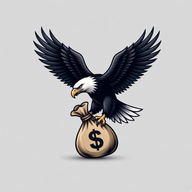
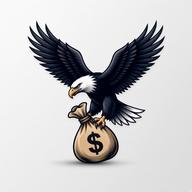
fix(ios): owner AppIcon plate (opaque only; web stays transparent) [GROK]
Install owner 1024×1024 light-background eagle+bag as iOS AppIcon and
opaque brand masters. Web/PWA icons, favicon, splash, and BrandLogo remain
transparent mark assets.

diff --git a/docs/brand/assets/README.md b/docs/brand/assets/README.md
@@ -38,4 +38,4 @@
 - Web `app/public/{icon-192,icon-512,apple-touch-icon,favicon}.png` ← **transparent** mark (`?v=10`)
 - iOS `BrandLockup` ← light (black letters) + dark (white letters)
 - iOS `BrandLogo` ← transparent eagle mark (in-app; alpha OK)
-- iOS `AppIcon` ← **opaque** owner 1024×1024 plate only
+- iOS `AppIcon` ← **opaque** owner 1024×1024 plate (light bg + soft shadow); web icons stay transparent
